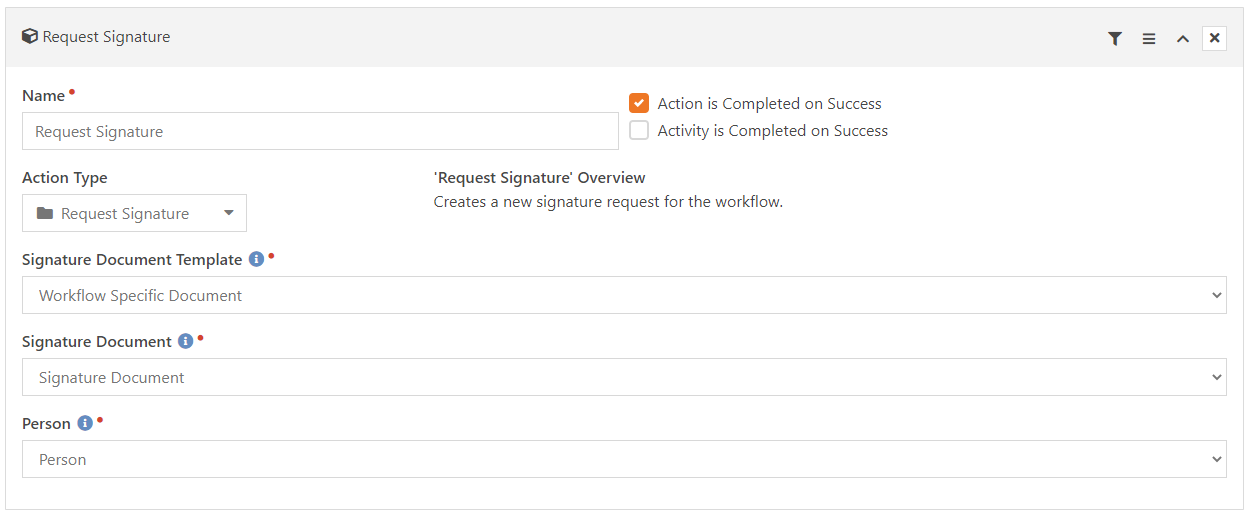
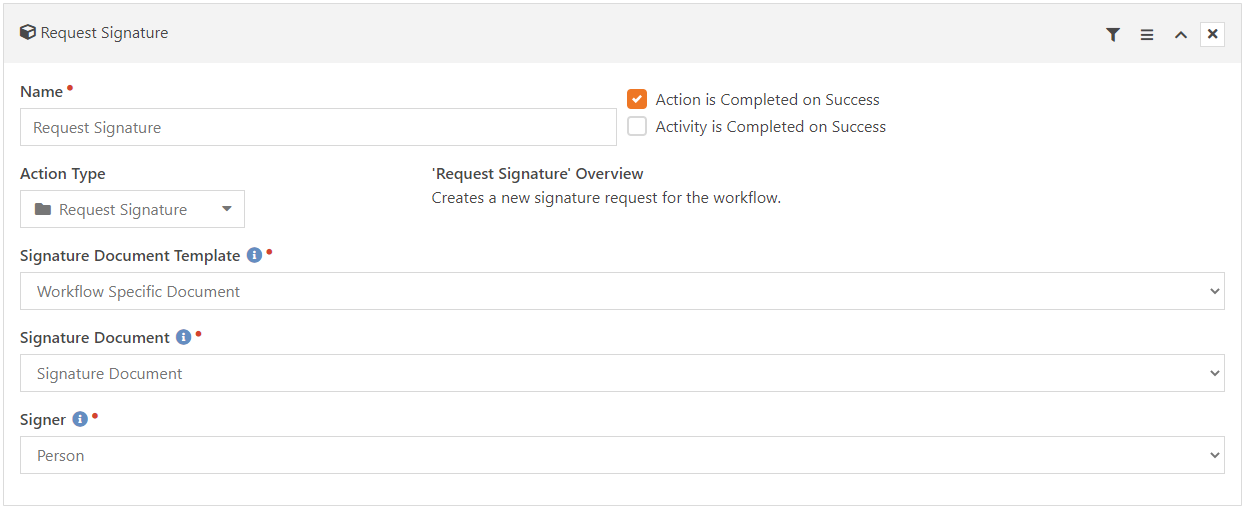
Updates from merge review, changed action setting label, minor logic corrections, formatting and updated screenshots.

diff --git a/rocks.kfs.Workflow.Action.Core/RequestSignature.cs b/rocks.kfs.Workflow.Action.Core/RequestSignature.cs
@@ -27,7 +27,7 @@ namespace rocks.kfs.Workflow.Action.Core
     #region Action Settings
     [CustomDropdownListField( "Signature Document Template", "The signature document template to send out when this action runs.", "SELECT Id AS Value, Name AS Text FROM SignatureDocumentTemplate ORDER BY Name", true, order: 0, key: AttributeKeys.DocumentTemplate )]
     [WorkflowAttribute( "Signature Document", "The attribute to store the created digital signature document in. On this action it will be used to check if the document has been signed before sending the invite again.", true, "", "", 1, AttributeKeys.SignatureDocument, new string[] { "Rock.Field.Types.FileFieldType" } )]
-    [WorkflowAttribute( "Person", "The workflow attribute of the person the signature request will go to. ", true, "", "", 2, AttributeKeys.Person, new string[] { "Rock.Field.Types.PersonFieldType" } )]
+    [WorkflowAttribute( "Signer", "The workflow attribute of the person the signature request will go to. ", true, "", "", 2, AttributeKeys.Person, new string[] { "Rock.Field.Types.PersonFieldType" } )]
     #endregion
 
     /// <summary>
@@ -114,7 +114,7 @@ namespace rocks.kfs.Workflow.Action.Core
 
                 if ( documentTemplate != null && signatureDocument != null )
                 {
-                    // get the attribute to store the request guid
+                    // get the attribute to store the document/file guid
                     var signatureDocumentAttributeGuid = GetAttributeValue( action, AttributeKeys.SignatureDocument ).AsGuidOrNull();
                     if ( signatureDocumentAttributeGuid.HasValue )
                     {
@@ -150,7 +150,7 @@ namespace rocks.kfs.Workflow.Action.Core
                     sendDocumentTxn.SignatureDocumentTemplateId = documentTemplateId.Value;
                     sendDocumentTxn.AppliesToPersonAliasId = person.PrimaryAliasId ?? 0;
                     sendDocumentTxn.AssignedToPersonAliasId = person.PrimaryAliasId ?? 0;
-                    sendDocumentTxn.DocumentName = string.Format( "{0}_{1}", action.Activity.Workflow.Name, person.FullName.RemoveSpecialCharacters() );
+                    sendDocumentTxn.DocumentName = string.Format( "{0}_{1}", action.Activity.Workflow.Name.RemoveSpecialCharacters(), person.FullName.RemoveSpecialCharacters() );
                     sendDocumentTxn.Email = person.Email;
                     Rock.Transactions.RockQueue.TransactionQueue.Enqueue( sendDocumentTxn );
                     return true;

diff --git a/rocks.kfs.Workflow.Action.Core/ProcessSignature.cs b/rocks.kfs.Workflow.Action.Core/ProcessSignature.cs
@@ -26,7 +26,7 @@ namespace rocks.kfs.Workflow.Action.Core
     #region Action Settings
     [CustomDropdownListField( "Signature Document Template", "The signature document template to check for when this action runs.", "SELECT Id AS Value, Name AS Text FROM SignatureDocumentTemplate ORDER BY Name", true, order: 0, key: AttributeKeys.DocumentTemplate )]
     [WorkflowAttribute( "Signature Document", "The workflow attribute to store the created digital signature document in.", true, "", "", 1, AttributeKeys.SignatureDocument, new string[] { "Rock.Field.Types.FileFieldType" } )]
-    [WorkflowAttribute( "Person", "The workflow attribute of the person the signature request was sent to. ", true, "", "", 2, AttributeKeys.Person, new string[] { "Rock.Field.Types.PersonFieldType" } )]
+    [WorkflowAttribute( "Signer", "The workflow attribute of the person the signature request was sent to. ", true, "", "", 2, AttributeKeys.Person, new string[] { "Rock.Field.Types.PersonFieldType" } )]
     #endregion
 
     /// <summary>
@@ -94,11 +94,9 @@ namespace rocks.kfs.Workflow.Action.Core
                    .OrderByDescending( d => d.LastStatusDate.Value )
                    .FirstOrDefault();
 
-                var documentTemplate = new SignatureDocumentTemplateService( rockContext ).Get( documentTemplateId.Value );
-
-                if ( documentTemplate != null && signatureDocument != null )
+                if ( signatureDocument != null )
                 {
-                    // get the attribute to store the request guid
+                    // get the attribute to store the document/file guid
                     var signatureDocumentAttributeGuid = GetAttributeValue( action, AttributeKeys.SignatureDocument ).AsGuidOrNull();
                     if ( signatureDocumentAttributeGuid.HasValue )
                     {

diff --git a/rocks.kfs.Workflow.Action.Core/Properties/AssemblyInfo.cs b/rocks.kfs.Workflow.Action.Core/Properties/AssemblyInfo.cs
@@ -20,14 +20,14 @@ using System.Runtime.InteropServices;
 // General Information about an assembly is controlled through the following
 // set of attributes. Change these attribute values to modify the information
 // associated with an assembly.
-[assembly: AssemblyTitle("rocks.kfs.Workflow.Action.Core")]
-[assembly: AssemblyDescription("")]
-[assembly: AssemblyConfiguration("")]
-[assembly: AssemblyCompany("")]
-[assembly: AssemblyProduct("rocks.kfs.Workflow.Action.Core")]
-[assembly: AssemblyTrademark("")]
-[assembly: AssemblyCulture("")]
-[assembly: AssemblyCopyright( "Copyright © Kingdom First Solutions 2020" )]
+[assembly: AssemblyTitle( "rocks.kfs.Workflow.Action.Core" )]
+[assembly: AssemblyDescription( "" )]
+[assembly: AssemblyConfiguration( "" )]
+[assembly: AssemblyCompany( "Kingdom First Solutions, Inc." )]
+[assembly: AssemblyProduct( "rocks.kfs.Workflow.Action.Core" )]
+[assembly: AssemblyTrademark( "" )]
+[assembly: AssemblyCulture( "" )]
+[assembly: AssemblyCopyright( "Copyright © Kingdom First Solutions, Inc. 2020" )]
 
 // Auto increment assembly versions
 [assembly: AssemblyVersion( "1.0.*" )]
@@ -38,4 +38,4 @@ using System.Runtime.InteropServices;
 [assembly: ComVisible( false )]
 
 // The following GUID is for the ID of the typelib if this project is exposed to COM
-[assembly: Guid("4cdcd152-1cda-4a9a-9b22-22ad9316efb6")]
+[assembly: Guid( "4cdcd152-1cda-4a9a-9b22-22ad9316efb6" )]

diff --git a/rocks.kfs.Workflow.Action.Core/ReadMe.md b/rocks.kfs.Workflow.Action.Core/ReadMe.md
@@ -27,9 +27,9 @@ Two new KFS actions are added under KFS: Core.
 
 **Request Signature**
 
-The block will need to be manually added to wherever you wish for it to be used. Such as a new page Check-in > Attendance Report.
-
 ![](../.screenshots/WorkflowActionCore/screenshot2.png)
+
+**Process Signature**
 
 ![](../.screenshots/WorkflowActionCore/screenshot3.png)
 
